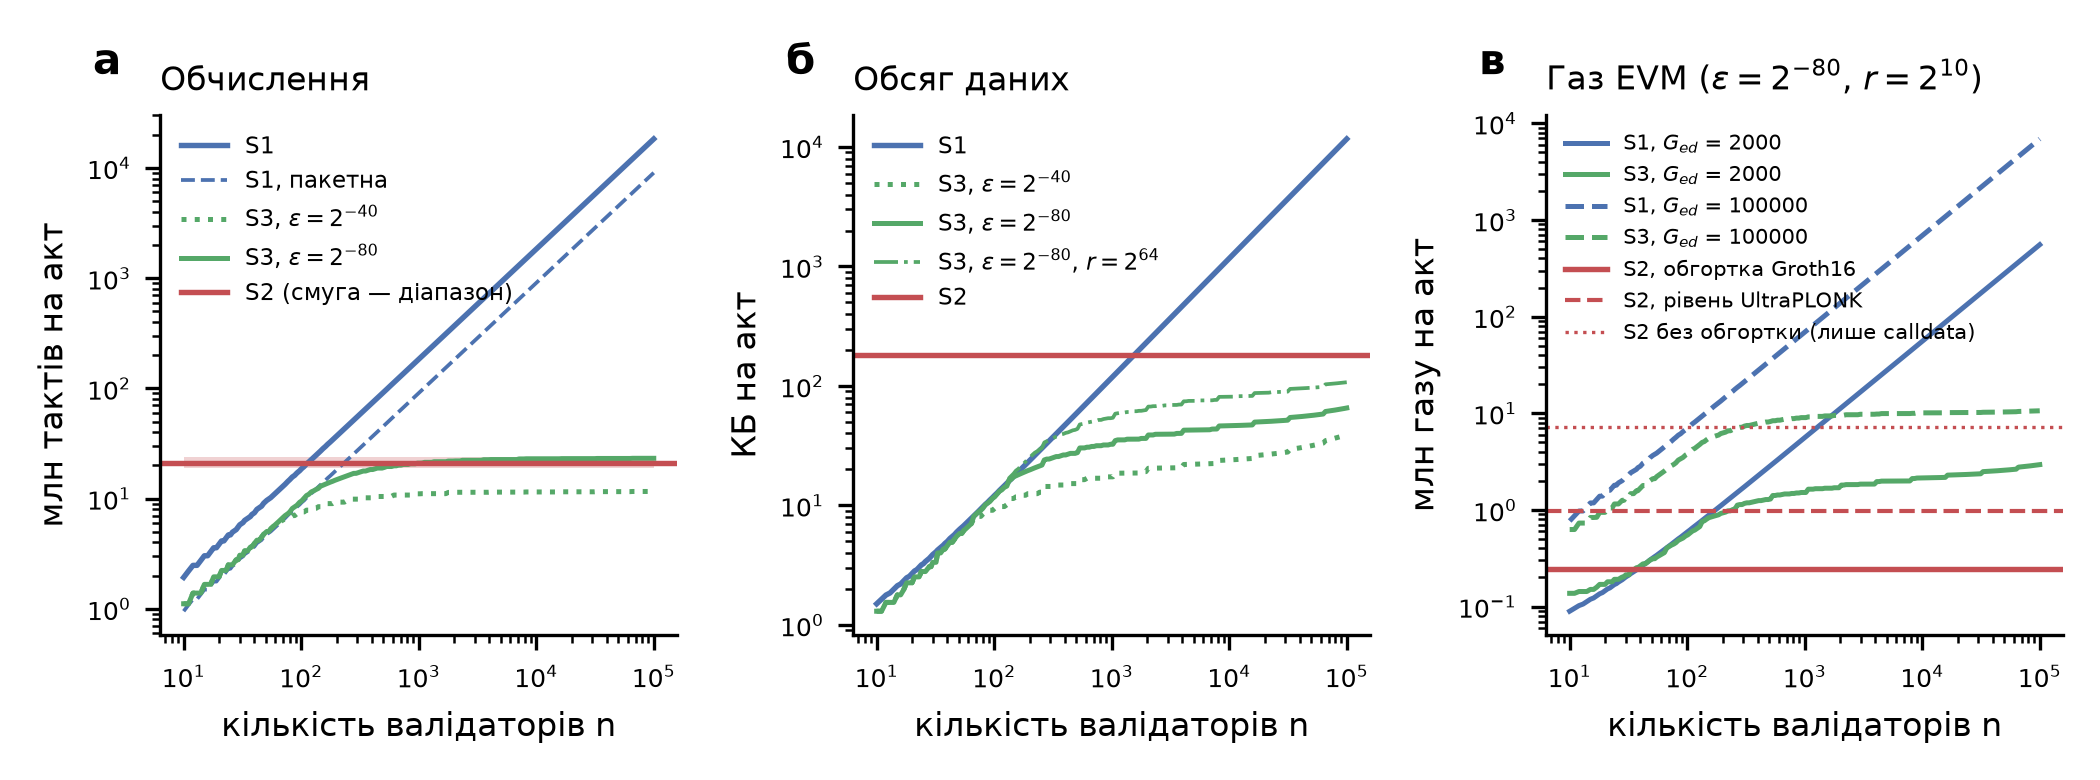
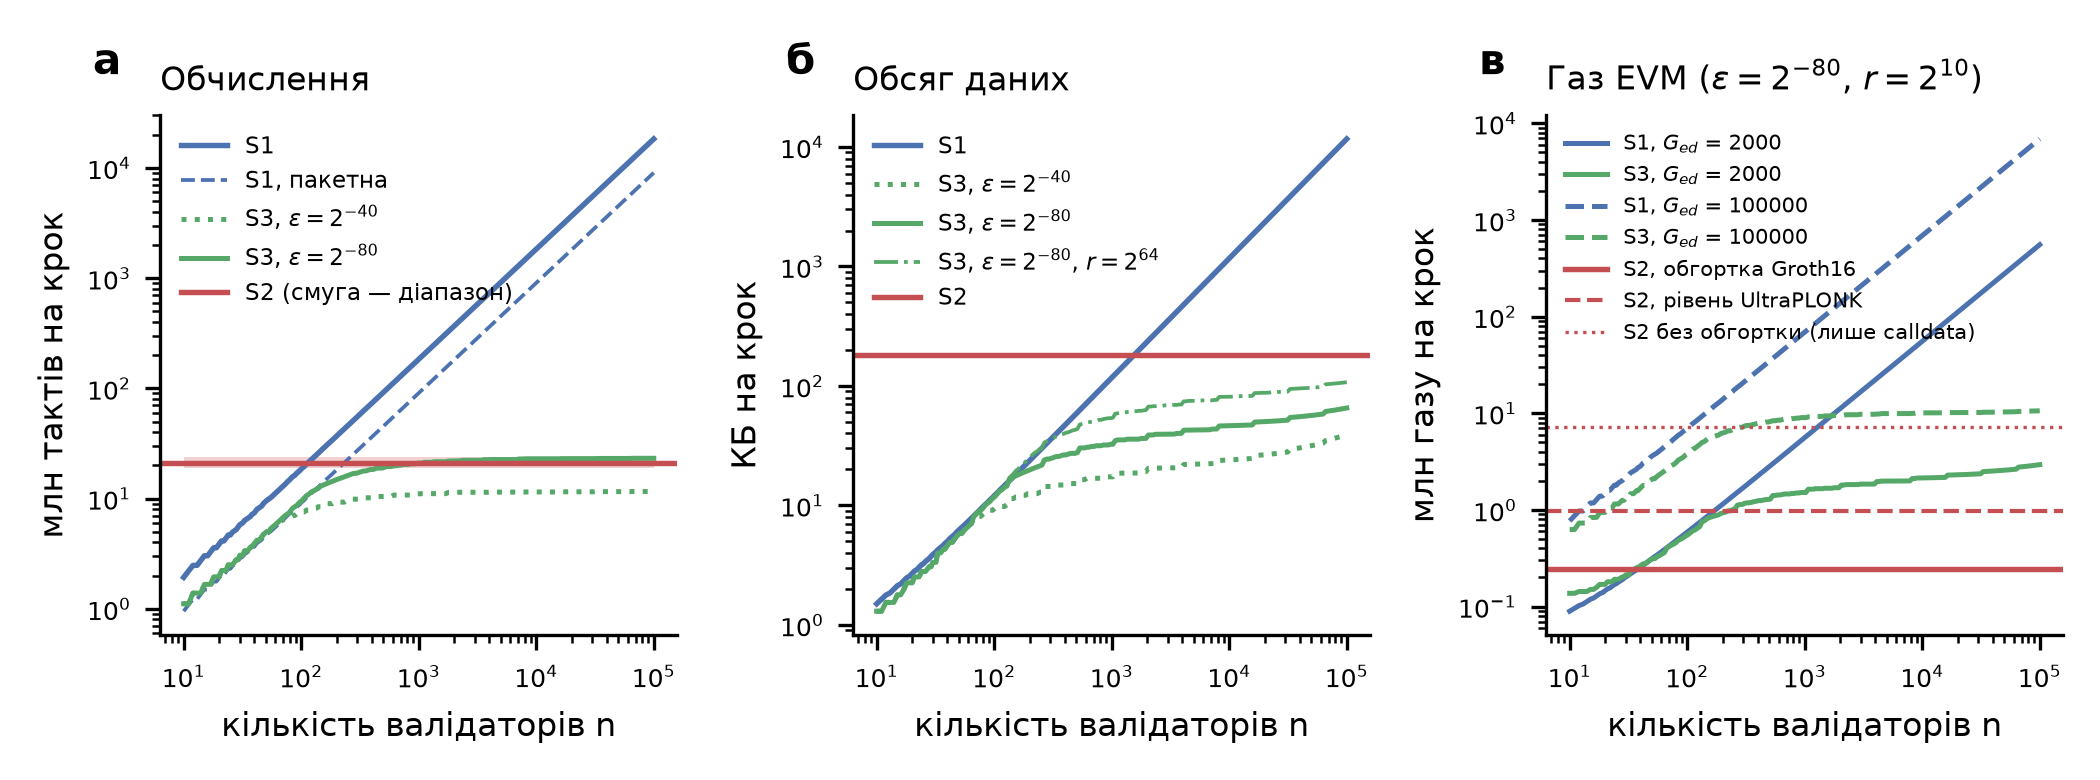
Update figure labels: synchronisation step, estimated security; fix fig. 6 legend placement

diff --git a/finality_model.py b/finality_model.py
@@ -275,7 +275,7 @@ def kstar_from_curve(lp, eps_bits, r=0.0):
     return np.nan
 
 # ----------------------------------------------------------------------------
-# 4. Модель вартості одного акту синхронізації
+# 4. Модель вартості одного кроку синхронізації
 #    (прийняти фіналізований заголовок нової епохи + перехід набору валідаторів)
 # ----------------------------------------------------------------------------
 HDR = 32 + 32 + 208 + 32   # LightClientBlockView без списків (nomicon; views.rs)
@@ -704,14 +704,14 @@ def fig2_kstar_and_degradation(out):
     for n_, ls in [(100, "-"), (1000, "--"), ("∞", ":")]:
         d = T7[(T7["n"] == n_) & (T7["design_eps"] == "2^-80")]
         y = d["bits_S3"].replace(np.inf, np.nan)
-        ax.plot(d["f_true"], y, ls, color=C["S3"], marker="o", ms=2.5, lw=1.2, label=f"S3, k налаштовано на f = 1/3, n = {n_}")
-    ax.axhline(LAMBDA_ED, color=C["S1"], lw=1.0, label="S1/S4 (Ed25519), до f < 2/3")
-    ax.axhline(LAMBDA_S2, color=C["S2"], lw=1.0, label="S2 (Plonky2, гіпотетично), до f < 2/3")
+        ax.plot(d["f_true"], y, ls, color=C["S3"], marker="o", ms=2.5, lw=1.2, label=f"S3, n = {n_}")
+    ax.axhline(LAMBDA_ED, color=C["S1"], lw=1.0, label="S1/S4 (Ed25519)")
+    ax.axhline(LAMBDA_S2, color=C["S2"], lw=1.0, label="S2 (Plonky2, оцінена стійкість)")
     ax.axhline(80, color="0.75", lw=0.6)
     ax.set_xlabel("фактична частка зловмисного стейку f")
     ax.set_ylabel("стійкість, біт")
     ax.set_ylim(0, 140)
-    ax.legend(loc="center right", bbox_to_anchor=(1.0, 0.47), fontsize=6)
+    ax.legend(loc="upper right", bbox_to_anchor=(1.0, 0.69), fontsize=6)
     letter(ax, "б")
     fig.tight_layout()
     fig.savefig(os.path.join(FIG, "fig6_kstar_degradation.png"), dpi=300)
@@ -766,7 +766,7 @@ def fig4_cost_vs_n(out):
     ax.fill_between(ns, cost_S2("lo")["cycles"] / 1e6, cost_S2("hi")["cycles"] / 1e6, color=C["S2"], alpha=0.25, lw=0)
     ax.axhline(cost_S2("nom")["cycles"] / 1e6, color=C["S2"], lw=1.3, label="S2 (смуга — діапазон)")
     ax.set_xscale("log"); ax.set_yscale("log")
-    ax.set_xlabel("кількість валідаторів n"); ax.set_ylabel("млн тактів на акт")
+    ax.set_xlabel("кількість валідаторів n"); ax.set_ylabel("млн тактів на крок")
     ax.set_title("Обчислення", loc="left"); ax.legend(fontsize=5.5, loc="upper left")
     letter(ax, "а")
     # bytes
@@ -778,7 +778,7 @@ def fig4_cost_vs_n(out):
     ax.fill_between(ns, cost_S2("lo")["bytes"] / 1e3, cost_S2("hi")["bytes"] / 1e3, color=C["S2"], alpha=0.25, lw=0)
     ax.axhline(cost_S2("nom")["bytes"] / 1e3, color=C["S2"], lw=1.3, label="S2")
     ax.set_xscale("log"); ax.set_yscale("log")
-    ax.set_xlabel("кількість валідаторів n"); ax.set_ylabel("КБ на акт")
+    ax.set_xlabel("кількість валідаторів n"); ax.set_ylabel("КБ на крок")
     ax.set_title("Обсяг даних", loc="left"); ax.legend(fontsize=5.5, loc="upper left")
     letter(ax, "б")
     # gas
@@ -790,7 +790,7 @@ def fig4_cost_vs_n(out):
     ax.axhline(GAS_S2["UltraPLONK (Bhatt et al.)"] / 1e6, color=C["S2"], lw=1.0, ls="--", label="S2, рівень UltraPLONK")
     ax.axhline(gas_S2_direct_lower() / 1e6, color=C["S2"], lw=0.8, ls=":", label="S2 без обгортки (лише calldata)")
     ax.set_xscale("log"); ax.set_yscale("log")
-    ax.set_xlabel("кількість валідаторів n"); ax.set_ylabel("млн газу на акт")
+    ax.set_xlabel("кількість валідаторів n"); ax.set_ylabel("млн газу на крок")
     ax.set_title(r"Газ EVM ($\varepsilon = 2^{-80}$, $r = 2^{10}$)", loc="left"); ax.legend(fontsize=5, loc="upper left")
     letter(ax, "в")
     fig.tight_layout()
